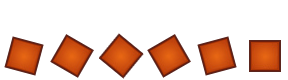
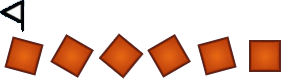
introducido la banderita que graba presionando la C
grabacios con la C

Changed region(s): [[0.0, 0.0, 0.0938, 0.4]]

diff --git a/cGame.cpp b/cGame.cpp
@@ -47,6 +47,13 @@ bool cGame::Init(HWND hWnd, HINSTANCE hInst, bool exclusive)
 	Player.SetLocalPosition(5 * 32, (29 - HEIGHT_MAX_TILES + 4) * 32);
 	Scene.SetLastPlayerLY( (29 - HEIGHT_MAX_TILES + 4) * 32 );
 	Player.SetGlobalPosition(5 * 32, 29 * 32);
+	psx = 5 * 32;
+	psy = 29 * 32;
+	pslx = 5 * 32;
+	psly = (29 - HEIGHT_MAX_TILES + 4) * 32;
+	ssx = 0;
+	ssy = (29 - HEIGHT_MAX_TILES + 4) * 32;
+	coff = 0;
 	Interface.InitScore();
 
 	return true;
@@ -202,7 +209,7 @@ bool cGame::ManageLogic()
 		if (Player.IsDeath()){
 			Interface.SumScore();
 			state = STATE_GAME;
-			ResetLevel();
+			ResetSaveLevel();
 		}
 		break;
 	}
@@ -245,6 +252,16 @@ void cGame::ProcessOrder()
 			Player.SetVely(-12.0f);
 		}
 	}
+	if (Keyboard->KeyDown(DIK_C)){
+		//psx, psy, ssx, ssy, coff,pslx,psly;
+		Player.GetLocalPosition(&pslx, &psly);
+		Player.GetGlobalPosition(&psx, &psy);
+		Scene.GetGlobalPosition(&ssx,&ssy);
+		Scene.GetOffsetYCamera(&coff);
+		// y me pintas una banderita
+		Player.SetLocalBandera(pslx, psly);
+		Player.SetGlobalBandera(psx, psy);
+	}
 }
 
 bool cGame::ManageGraphics()
@@ -264,6 +281,16 @@ void cGame::ResetLevel()
 
 	Scene.SetGlobalPosition(0,(29 - HEIGHT_MAX_TILES + 5) * 32);
 	Scene.SetOffsetYCamera(0);
+
+}
+void cGame::ResetSaveLevel()
+{
+	Player.SetLocalPosition(pslx, psly);
+	Player.SetGlobalPosition(psx, psy);
+	Player.ResetDieAnimation();
+
+	Scene.SetGlobalPosition(ssx, ssy);
+	Scene.SetOffsetYCamera(coff);
 }
 
 void cGame::Finalize()

diff --git a/cGraphicsLayer.cpp b/cGraphicsLayer.cpp
@@ -494,6 +494,7 @@ bool cGraphicsLayer::Render(cMouse *Mouse, cScene *Scene, int state, cPlayer *Pl
 		PintaPlayer(Scene, Player);
 		//Score
 		PintaScore(Scene, Interface);
+		PintaBandera(Player);
 		break;
 
 	case STATE_DEATH:
@@ -507,11 +508,12 @@ bool cGraphicsLayer::Render(cMouse *Mouse, cScene *Scene, int state, cPlayer *Pl
 
 		//pintar escena
 		PintaEscena(Scene);
-
+		//
+		PintaScore(Scene, Interface);
 		//pintar animacion de muerte
 		PintaMuerte(Player);
-
-
+		PintaBandera(Player);
+		
 	}
 
 	
@@ -789,4 +791,30 @@ bool cGraphicsLayer::PintaScore(cScene *Scene, cInterface *Interface)
 
 	return true;
 
+}
+bool cGraphicsLayer::PintaBandera(cPlayer *Player)
+{
+	int px, py, tsize,blx,bly,bgx,bgy;
+
+	RECT rc_o;
+	RECT rc_d;
+
+	Player->GetGlobalPosition(&px, &py);
+	Player->GetTileSize(&tsize);
+	Player->GetLocalBandera(&blx, &bly);
+	Player->GetGlobalBandera(&bgx,&bgy);
+	
+	//pintamos si esta en pantalla, esta en pantalla si la resta de la posicion x del player y la de la bandera de menos de 5*32 que es el espacio que hay hasta el final.
+	if ((px-bgx<5*32) && (bgx!=0))
+	{
+		BeginBatchDrawing(texCharacters, 0.0f);
+		SetRect(&rc_o, 0, 0, 32, 32);
+		SetRect(&rc_d, 5 * 32 + bgx - px, bly, 5 * 32+bgx - px + 32, bly + 32);
+		AddQuad(rc_o, rc_d, 0xFFFFFFFF);
+
+		EndBatchDrawing();
+
+	}
+	
+	return true;
 }

diff --git a/cPlayer.cpp b/cPlayer.cpp
@@ -10,6 +10,10 @@ cPlayer::cPlayer()
 	seq = 0;
 	vuelta = 0.0f; 
 	velocidadvuelta = 0.7f;
+	banderalx = 0;
+	banderaly = 0;
+	banderagx = 0;  
+	banderagy = 0;
 }
 
 cPlayer::~cPlayer()
@@ -77,6 +81,27 @@ void cPlayer::GetTileSize(int *tsize)
 	*tsize = tileSize;
 }
 
+
+void cPlayer::SetLocalBandera(int x,int y)
+{
+	banderalx = x; 
+	banderaly = y;
+}
+void cPlayer::GetLocalBandera(int* x, int *y)
+{
+	*x = banderalx;
+	*y = banderaly;
+}
+void cPlayer::SetGlobalBandera(int x, int y)
+{
+	banderagx = x;
+	banderagy = y;
+}
+void cPlayer::GetGlobalBandera(int *x, int *y)
+{
+	*x = banderagx;
+	*y = banderagy;
+}
 void cPlayer::PlayDieAnimation()
 {
 	delay++;

diff --git a/cGraphicsLayer.h b/cGraphicsLayer.h
@@ -49,6 +49,7 @@ public:
 	bool cGraphicsLayer::PintaPlayer(cScene *Scene, cPlayer *Player);
 	bool DrawRect(RECT rc, D3DCOLOR color);
 	bool PintaMuerte(cPlayer *Player);
+	bool PintaBandera(cPlayer *Player);
 
 	IDirect3DTexture9 *LoadTexture(char *fileName, D3DCOLOR colorkey);
 	int ClearBuffer();
@@ -65,6 +66,7 @@ public:
 	void AddQuad(RECT rSource, RECT rDest, D3DCOLOR colour);
 	//End batched drawing (put all quads in the buffer on screen)
 	void EndBatchDrawing();
+
 
 private:
 

diff --git a/cScene.cpp b/cScene.cpp
@@ -105,10 +105,10 @@ int cScene::Changebackground(cPlayer *Player)
 	//660 fondo negro
 	//684 fondo azul
 	fondo = 0;
-	if (x >= 324){ fondo = 1; }
-	if (x >= 360){ fondo = 2; }
-	if (x >= 660){ fondo = 1; }
-	if (x >= 684){ fondo = 0; }
+	if (x >= 360){ fondo = 1; }
+	if (x >= 388){ fondo = 2; }
+	if (x >= 734){ fondo = 1; }
+	if (x >= 750){ fondo = 0; }
 
 	return fondo;
 }

diff --git a/cGame.h b/cGame.h
@@ -30,6 +30,7 @@ public:
 	void Finalize();
 	void ProcessOrder();
 	void ResetLevel();
+	void ResetSaveLevel();
 
 	//Clases que posee el juego
 	cGraphicsLayer Graphics;
@@ -38,6 +39,8 @@ public:
 	cPlayer Player;
 	cFisicas Physics;
 	cInterface Interface;
+
+	int psx, psy,pslx,psly, ssx, ssy, coff;
 
 	float deltaTime;
 
